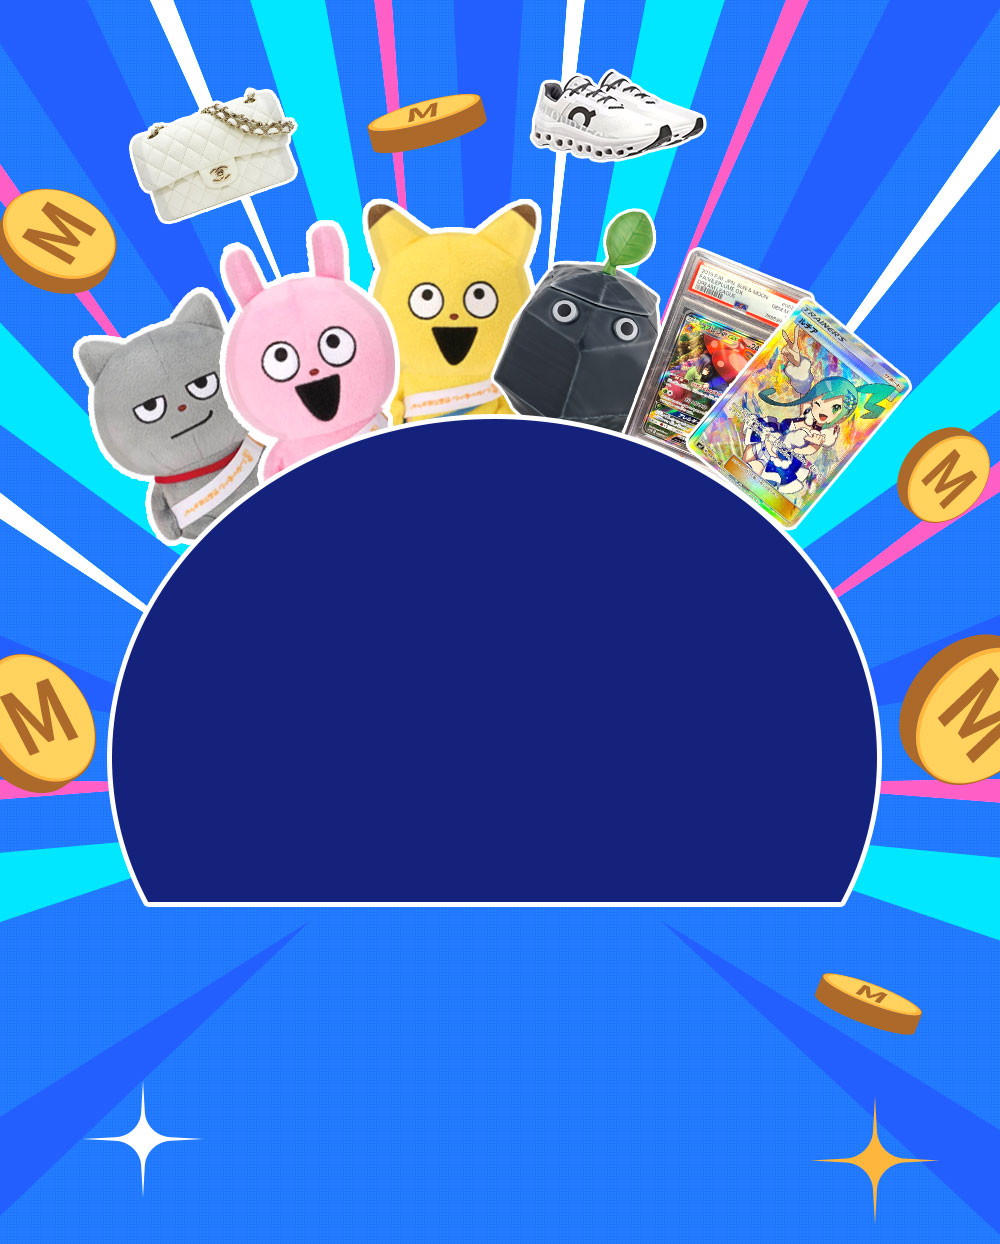
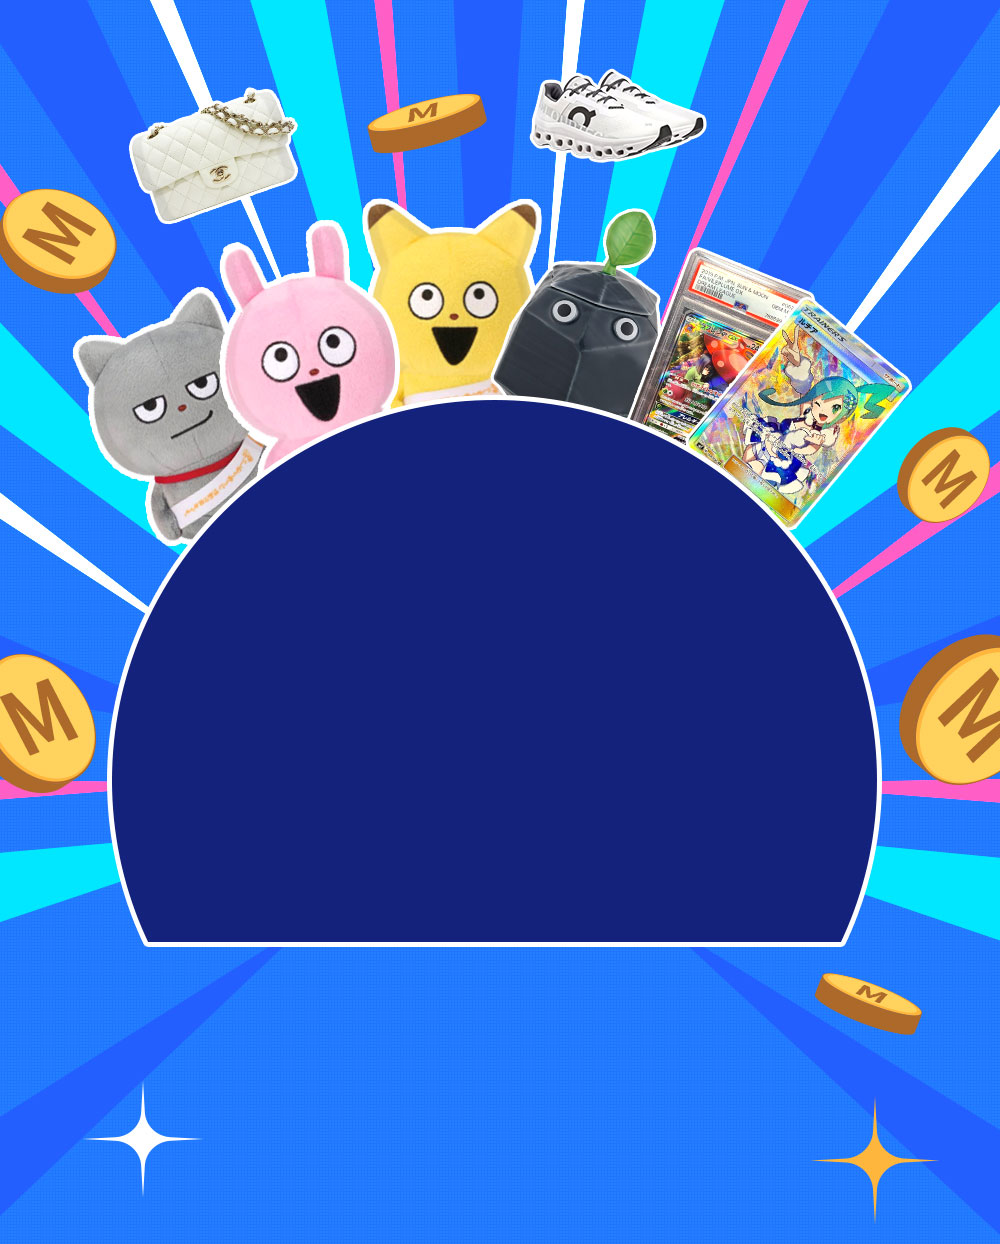
20260401_4

diff --git a/html/css/mobile-layout.css b/html/css/mobile-layout.css
@@ -86,8 +86,12 @@ a{-webkit-tap-highlight-color:rgba(225,225,225,0.5);}
 .kv_logo{
 	position: absolute;
 	display: block;
-	width: 60%;
-	margin:42% 20%;
+	width: 55%;
+	margin:44% 22%; 
+   filter: drop-shadow(5px 0 0 #14227c) 
+           drop-shadow(0 5px 0 #14227c)
+           drop-shadow(-5px 0 0 #14227c) 
+           drop-shadow(0 -5px 0 #14227c); 
  }
 
 
